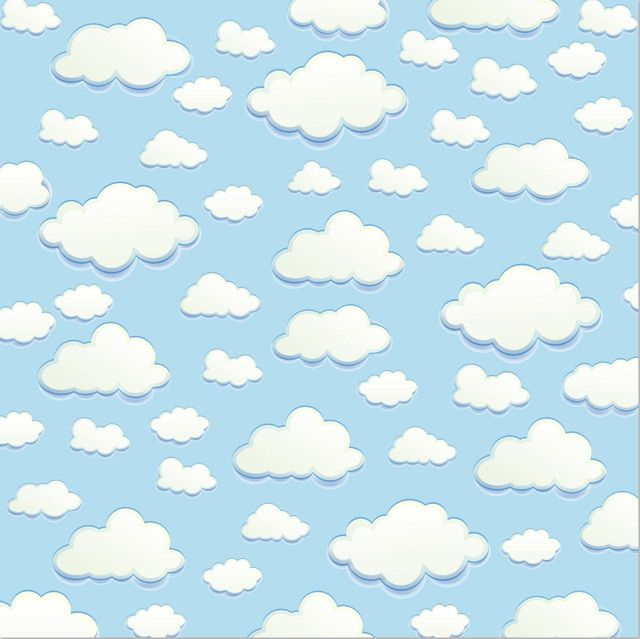
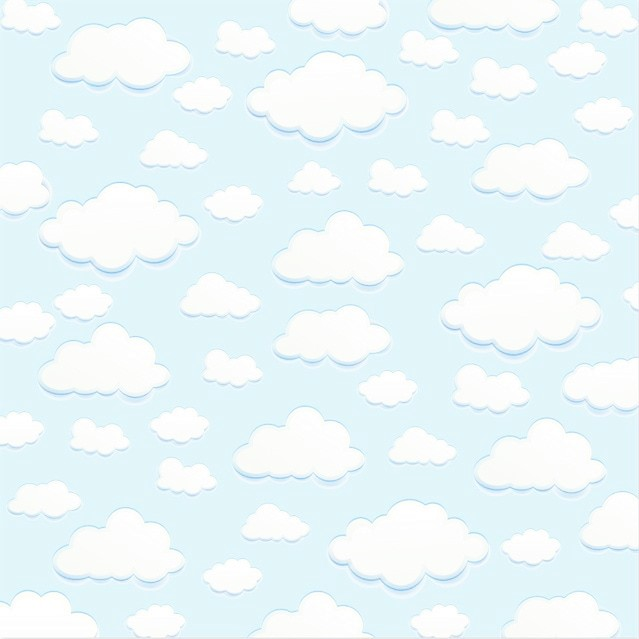
bg feito

diff --git a/FE/startbootstrap-sb-admin-2-gh-pages/startbootstrap-sb-admin-2-gh-pages/css/sb-admin-2.css b/FE/startbootstrap-sb-admin-2-gh-pages/startbootstrap-sb-admin-2-gh-pages/css/sb-admin-2.css
@@ -11696,25 +11696,17 @@ body.sidebar-toggled footer.sticky-footer {
   width: 100%;
 }
 
-
-
 /*----------------------------------------------------------NOSSO A PARTIR DAQUI------------------------------------------------------*/
-.centerthings{
-  margin:0 auto;
+.centerthings {
+  margin: 0 auto;
 }
 
-
-  .bg2 {
-    border: none;
-    position: absolute;
-    bottom: 0;
-    left: 0;
-    width: 100%;
-    height: 100%;
-    background: /*#525866fa */url("/FE/startbootstrap-sb-admin-2-gh-pages/startbootstrap-sb-admin-2-gh-pages/img/clouds_backgroud.jpg") left repeat-x;
-    background-size: auto;
-    background-position: bottom;
-    z-index: -1;
+#bg2  {
+    background-repeat: no-repeat;
+    background-size: 100%;
+    background-attachment: fixed;
+    background-image: url(/FE/startbootstrap-sb-admin-2-gh-pages/startbootstrap-sb-admin-2-gh-pages/img/clouds_backgroud.jpg);
+    background-repeat: repeat-y;
   }
 /*
 #bg2 {

diff --git a/FE/startbootstrap-sb-admin-2-gh-pages/startbootstrap-sb-admin-2-gh-pages/MenuEscolhaIdades.html b/FE/startbootstrap-sb-admin-2-gh-pages/startbootstrap-sb-admin-2-gh-pages/MenuEscolhaIdades.html
@@ -23,9 +23,8 @@
 
 </head>
 
-<body>
-    <div class="bg2"></div>
-    <img src="/FE/startbootstrap-sb-admin-2-gh-pages/startbootstrap-sb-admin-2-gh-pages/img/LogoApp.png" alt="">
+<body id="bg2">
+    <div class="centerthings"><img src="/FE/startbootstrap-sb-admin-2-gh-pages/startbootstrap-sb-admin-2-gh-pages/img/LogoApp.png" alt=""></div>
 </body>
-    
+
 </html>
